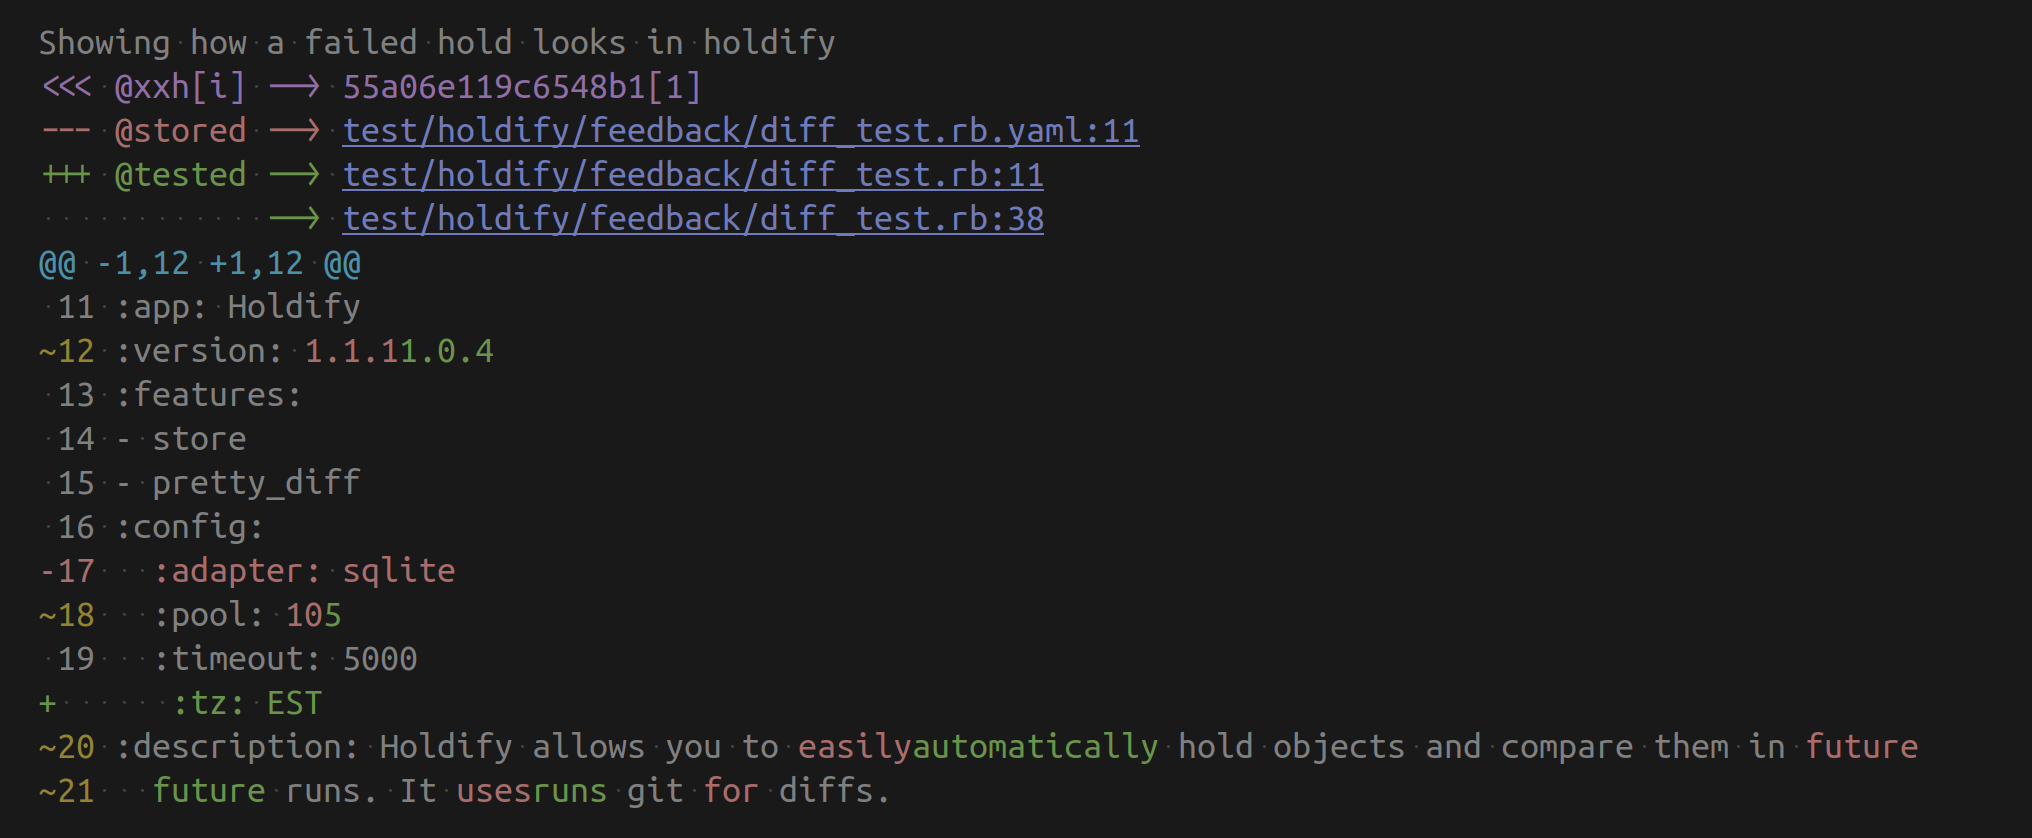
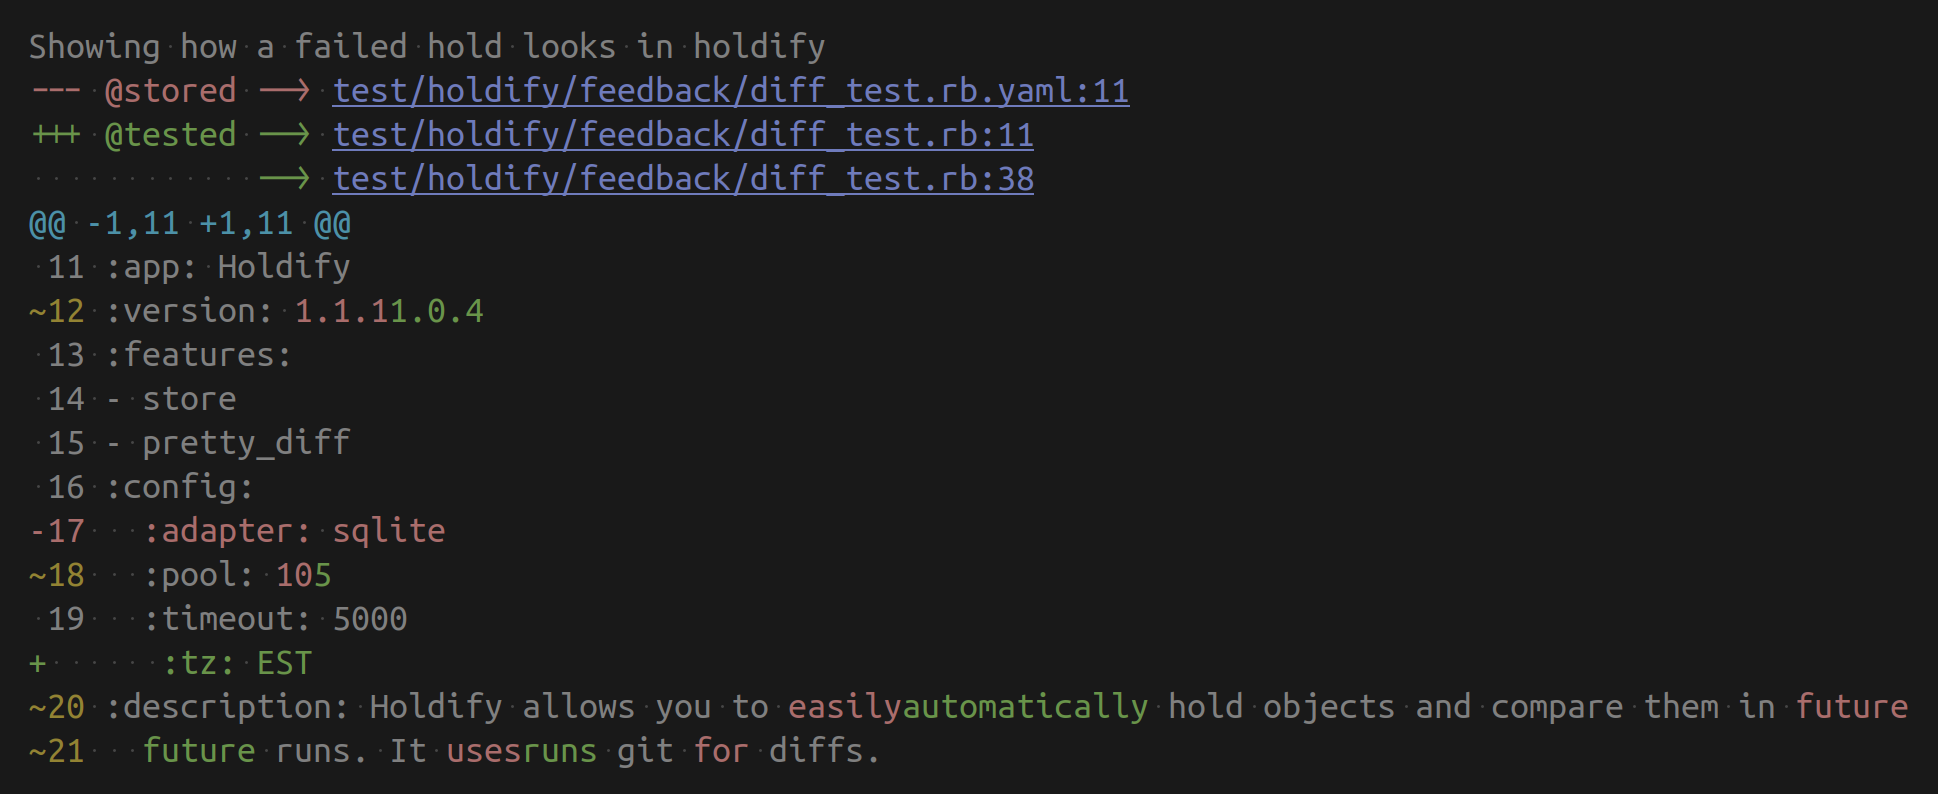
Change storage-key and feedback header

Changed region(s): [[0.0, 0.0302, 0.9907, 0.9673], [0.0, 0.8161, 0.031, 0.8463]]

diff --git a/test/holdify/feedback/feedback_test.rb b/test/holdify/feedback/feedback_test.rb
@@ -45,7 +45,6 @@ describe 'Holdify::Feedback Specs' do
     rescue Minitest::Assertion => e
       assert_equal <<~EXP, e.message
 
-        \e[35m<<< @xxh[i] --> 6a431ee396381dd4[0]\e[0m
         \e[31m--- @stored --> test/holdify/feedback/feedback_test.rb.yaml:3\e[0m
         \e[32m+++ @tested --> test/holdify/feedback/feedback_test.rb:43\e[0m
         \e[36m@@ -1,4 +1,4 @@\e[m
@@ -62,10 +61,9 @@ describe 'Holdify::Feedback Specs' do
       end
     rescue Minitest::Assertion => e
       assert_equal <<~EXP, e.message
-      
-        <<< @xxh[i] --> 6a431ee396381dd4[0]
+        
         --- @stored --> test/holdify/feedback/feedback_test.rb.yaml:8
-        +++ @tested --> test/holdify/feedback/feedback_test.rb:61
+        +++ @tested --> test/holdify/feedback/feedback_test.rb:60
         @@ -1,4 +1,4 @@
           8 - common line
         - 9 - changed line new
@@ -84,11 +82,10 @@ describe 'Holdify::Feedback Specs' do
     rescue Minitest::Assertion => e
       assert_equal <<~EXP, e.message
 
-        \e[35m<<< @xxh[i] --> 6a431ee396381dd4[0]\e[0m
         \e[31m--- @stored --> test/holdify/feedback/feedback_test.rb.yaml:13\e[0m
-        \e[32m+++ @tested --> test/holdify/feedback/feedback_test.rb:82\e[0m
-        \e[31m- [\"common line\", \"changed line new\", {\"key\"#{SEP}\"val\", \"add\"#{SEP}\"add\"}]\e[0m
-        \e[32m+ [\"common line\", \"changed line old\", {\"remove\"#{SEP}\"remove\", \"key\"#{SEP}\"val\"}]\e[0m
+        \e[32m+++ @tested --> test/holdify/feedback/feedback_test.rb:80\e[0m
+        \e[31m-[\"common line\", \"changed line new\", {\"key\"#{SEP}\"val\", \"add\"#{SEP}\"add\"}]\e[0m
+        \e[32m+[\"common line\", \"changed line old\", {\"remove\"#{SEP}\"remove\", \"key\"#{SEP}\"val\"}]\e[0m
       EXP
     end
 
@@ -99,12 +96,11 @@ describe 'Holdify::Feedback Specs' do
     rescue Minitest::Assertion => e
       assert_equal <<~EXP, e.message
         Custom message with hold and test path
-        <<< @xxh[i] --> 05922e43fb0eae28[0]
         --- @stored --> test/holdify/feedback/feedback_test.rb.yaml:18
         +++ @tested --> test/holdify/feedback/feedback_test.rb:37
-                    --> test/holdify/feedback/feedback_test.rb:97
-        - [\"common line\", \"changed line new\", {\"key\"#{SEP}\"val\", \"add\"#{SEP}\"add\"}]
-        + [\"common line\", \"changed line old\", {\"remove\"#{SEP}\"remove\", \"key\"#{SEP}\"val\"}]
+                    --> test/holdify/feedback/feedback_test.rb:94
+        -[\"common line\", \"changed line new\", {\"key\"#{SEP}\"val\", \"add\"#{SEP}\"add\"}]
+        +[\"common line\", \"changed line old\", {\"remove\"#{SEP}\"remove\", \"key\"#{SEP}\"val\"}]
       EXP
     end
 
@@ -115,9 +111,8 @@ describe 'Holdify::Feedback Specs' do
     rescue Minitest::Assertion => e
       assert_equal <<~EXP, e.message
 
-        \e[35m<<< @xxh[i] --> 6a431ee396381dd4[0]\e[0m
         \e[31m--- @stored --> test/holdify/feedback/feedback_test.rb.yaml:23\e[0m
-        \e[32m+++ @tested --> test/holdify/feedback/feedback_test.rb:113\e[0m
+        \e[32m+++ @tested --> test/holdify/feedback/feedback_test.rb:109\e[0m
         \e[36m@@ -1,4 +1,4 @@\e[m
          23\e[0m - common line\e[m
         \e[33m~24\e[0m - changed line \e[31mnew\e[m\e[32mold\e[m

diff --git a/test/holdify/store/store_test.rb b/test/holdify/store/store_test.rb
@@ -14,7 +14,6 @@ describe 'Holdify::Store Specs' do
 
   before do
     @original_config = Holdify.git_diff
-    Holdify.quiet    = false
     Holdify.git_diff = false
     FileUtils.rm_f(store_path)
     reset_holdify_state
@@ -30,13 +29,16 @@ describe 'Holdify::Store Specs' do
   it 'creates the store and the entry' do
     expect('a new value').to_hold
     @hold.save
+    Holdify.quiet = false
     _, err = capture_io { Holdify.fresh_report }
+    Holdify.quiet = true
+
     Holdify.stores(File.expand_path(__FILE__)).persist
     key = last_key
     _(err).must_match(/\[HOLDIFY\] Fresh value held for/)
 
     _(File.exist?(store_path)).must_equal true
-    content = YAML.load_file(store_path)
+    content = YAML.unsafe_load_file(store_path)
     _(content[key]).must_equal ['a new value']
   end
 
@@ -50,7 +52,7 @@ describe 'Holdify::Store Specs' do
     store.set_values(10_000, ['phantom'])
     store.persist
 
-    content = YAML.load_file(store_path)
+    content = YAML.unsafe_load_file(store_path)
     _(content).must_be_empty
   end
 
@@ -81,8 +83,8 @@ describe 'Holdify::Store Specs' do
     # Simulate a YAML with 2 entries for that id (as if it previously had 2 lines)
     yaml_path = "#{source_file}#{Holdify.store_ext}"
     data = {
-      "L1 #{xxh}" => ['val1'],
-      "L2 #{xxh}" => ['val2']
+      "L1-#{xxh}" => ['val1'],
+      "L2-#{xxh}" => ['val2']
     }
     File.write(yaml_path, YAML.dump(data))
 
@@ -91,9 +93,9 @@ describe 'Holdify::Store Specs' do
     store.persist
 
     # Verify L2 was removed because source only has 1 occurrence
-    saved_data = YAML.load_file(yaml_path)
+    saved_data = YAML.unsafe_load_file(yaml_path)
     _(saved_data.size).must_equal 1
-    _(saved_data.keys.first).must_equal "L1 #{xxh}"
+    _(saved_data.keys.first).must_equal "L1-#{xxh}"
   ensure
     FileUtils.rm_f(source_file)
     FileUtils.rm_f(yaml_path)
@@ -117,7 +119,7 @@ describe 'Holdify::Store Specs' do
     Holdify::Store.new(source_file).persist
 
     # 4. Verify that the orphaned entry was pruned from the store file
-    assert_equal 1, YAML.load_file(yaml_path).size
+    assert_equal 1, YAML.unsafe_load_file(yaml_path).size
   ensure
     FileUtils.rm_f(source_file) if source_file
     FileUtils.rm_f(yaml_path) if yaml_path

diff --git a/lib/holdify/feedback.rb b/lib/holdify/feedback.rb
@@ -7,15 +7,11 @@ require 'open3'
 module Holdify
   # Feedback report on failure
   class Feedback
-    attr_reader :xxhi_ref
-
     def initialize(hold, hold_ref, *args)
       test_lno  = hold.test_loc.lineno
       index     = hold.session[test_lno].size - 1   # current index
       xxh       = hold.store.xxh(test_lno)
       yaml_path = hold.store.path
-
-      @xxhi_ref = "<<< @xxh[i] --> #{xxh}[#{index}]"
 
       @yaml_lno = find_yaml_lno(yaml_path, test_lno, xxh, index)
       @yaml_ref = Holdify.relativize("#{yaml_path}:#{@yaml_lno}")
@@ -34,7 +30,7 @@ module Holdify
       extend(Color::GitDiff) if Holdify.color
     end
 
-    def message = [@message, xxhi_ref, *file_refs, *diff, ''].join("\n")
+    def message = [@message, *file_refs, *diff, ''].join("\n")
 
     def file_refs
       ["--- @stored --> #{@yaml_ref}", "+++ @tested --> #{@hold_ref}"].tap do |refs|
@@ -42,7 +38,7 @@ module Holdify
       end
     end
 
-    def diff = ["- #{@expected.inspect}", "+ #{@actual.inspect}"]
+    def diff = ["-#{@expected.inspect}", "+#{@actual.inspect}"]
 
     private
 
@@ -58,7 +54,7 @@ module Holdify
 
           return ln
         else
-          found = line.match(/^L#{test_lno} #{xxh}:$/)
+          found = line.match(/^L#{test_lno}-#{xxh}:$/)
         end
       end
     end
@@ -144,9 +140,7 @@ module Holdify
         [dye(:red, refs.shift), *refs.map { dye(:green, _1) }]
       end
 
-      def diff = [dye(:red, "- #{@expected.inspect}"), dye(:green, "+ #{@actual.inspect}")]
-
-      def xxhi_ref = dye(:magenta, @xxhi_ref)
+      def diff = [dye(:red, "-#{@expected.inspect}"), dye(:green, "+#{@actual.inspect}")]
 
       # Methods enabling the git-diff ANSI feedback
       module GitDiff

diff --git a/test/holdify/hold/assertion_test.rb b/test/holdify/hold/assertion_test.rb
@@ -7,7 +7,6 @@ describe 'Holdify Assertions' do
   let(:store_path) { "#{File.expand_path(__FILE__)}#{Holdify.store_ext}" }
 
   before do
-    Holdify.quiet = false
     Holdify.stores.delete(File.expand_path(__FILE__))
     Holdify.stores.delete(__FILE__)
     @hold = Holdify::Hold.new(self)
@@ -24,7 +23,7 @@ describe 'Holdify Assertions' do
     Holdify.stores(File.expand_path(__FILE__)).persist
     key = last_key
 
-    content = YAML.load_file(store_path)
+    content = YAML.unsafe_load_file(store_path)
     _(content[key]).must_equal [nil]
   end
 
@@ -36,7 +35,7 @@ describe 'Holdify Assertions' do
     Holdify.stores(File.expand_path(__FILE__)).persist
     key = last_key
 
-    content = YAML.load_file(store_path)
+    content = YAML.unsafe_load_file(store_path)
     _(content[key]).must_equal ['block_val']
   end
 
@@ -48,7 +47,7 @@ describe 'Holdify Assertions' do
     @hold.save
     Holdify.stores(File.expand_path(__FILE__)).persist
 
-    content = YAML.load_file(store_path)
+    content = YAML.unsafe_load_file(store_path)
     _(content[key_a]).must_equal ['a']
     _(content[key_b]).must_equal ['b']
   end

diff --git a/test/holdify_test.rb b/test/holdify_test.rb
@@ -23,11 +23,14 @@ describe 'holdify' do
 
       Holdify.instance_variable_get(:@fresh).clear
       Holdify.quiet = false
+      # This covers the branch where @fresh is empty
+      assert_silent { Holdify.fresh_report }
+
       hold.call('quiet_val_false')
       _, err = capture_io { Holdify.fresh_report }
       _(err).must_match(/\[HOLDIFY\] Fresh value held for/)
     ensure
-      Holdify.quiet = false
+      Holdify.quiet = true
       path = File.expand_path(__FILE__)
       Holdify.instance_variable_get(:@fresh)&.clear
       FileUtils.rm_f("#{path}#{Holdify.store_ext}")
@@ -65,7 +68,7 @@ describe 'holdify' do
 
       # Verify the file was written
       assert_path_exists store_path
-      content = YAML.load_file(store_path)
+      content = YAML.unsafe_load_file(store_path)
       assert_includes content.values.flatten, 'data for persist_stores'
     ensure
       FileUtils.rm_f(store_path) if store_path

diff --git a/lib/holdify/store.rb b/lib/holdify/store.rb
@@ -40,7 +40,7 @@ module Holdify
         xxh = @source.xxh(lineno)
         next unless xxh
 
-        output["L#{lineno} #{xxh}"] = @data[lineno]
+        output["L#{lineno}-#{xxh}"] = @data[lineno]
       end
 
       File.write(@path, self.class.hold_dump(output))
@@ -51,7 +51,7 @@ module Holdify
     def load_and_align
       {}.tap do |aligned|
         data = YAML.unsafe_load_file(@path) || {}
-        data.group_by { |k, _| k.split.last }.each do |xxh, entries|
+        data.group_by { |k, _| k.split('-').last }.each do |xxh, entries|
           lines = @source.lines(xxh)
           next if lines.empty?
 

diff --git a/lib/holdify/hold.rb b/lib/holdify/hold.rb
@@ -27,7 +27,7 @@ module Holdify
                elsif values && index < values.size
                  values[index]
                else
-                 Holdify.push_fresh("#{Holdify.relativize(@path)}:#{lineno}")
+                 Holdify.push_fresh("#{Holdify.relativize(@test_loc.path)}:#{lineno}")
                  actual
                end
 

diff --git a/lib/minitest/holdify_plugin.rb b/lib/minitest/holdify_plugin.rb
@@ -47,6 +47,12 @@ module Minitest
     end
   end
 
+  # Patching Minitest::Assertion
+  class Assertion
+    remove_const :RE
+    RE = /in [`'](?:[^']+[#.])?(?:assert|refute|flunk|pass|fail|raise|must|wont|to)/ # :nodoc:
+  end
+
   # Reopen the minitest class
   class Test
     # Ensure store is tidied and saved after the test runs

diff --git a/test/helpers/key_helper.rb b/test/helpers/key_helper.rb
@@ -10,7 +10,7 @@ module KeyHelper
     def call(actual, force: false)
       @test_loc  = find_test_loc
       xxh        = @store.xxh(@test_loc.lineno)
-      @store_key = "L#{@test_loc.lineno} #{xxh}" if xxh
+      @store_key = "L#{@test_loc.lineno}-#{xxh}" if xxh
       super
     end
   end

diff --git a/test/test_helper.rb b/test/test_helper.rb
@@ -15,3 +15,6 @@ require 'helpers/minitest_backtraces'
 require 'helpers/key_helper'
 
 require 'minitest/autorun'
+
+# We don't want random warnings for testing holdify
+Holdify.quiet = true

diff --git a/README.md b/README.md
@@ -163,11 +163,11 @@ Holdify stores values in a standard YAML file named after your test file (e.g., 
 ```yaml
 ---
 # Simple assertion at line 10
-L10 df67...:
+L10-df67...:
 - "simple value"
 
 # Loop executing line 15 twice
-L15 4b0a...:
+L15-4b0a...:
 - "iteration 1"
 - "iteration 2"
 ```
@@ -186,7 +186,7 @@ end
 The store file will look like this:
 
 ```yaml
-L10 ac3b...:
+L10-ac3b...:
 - :permissions:
   - :read
   - :write
